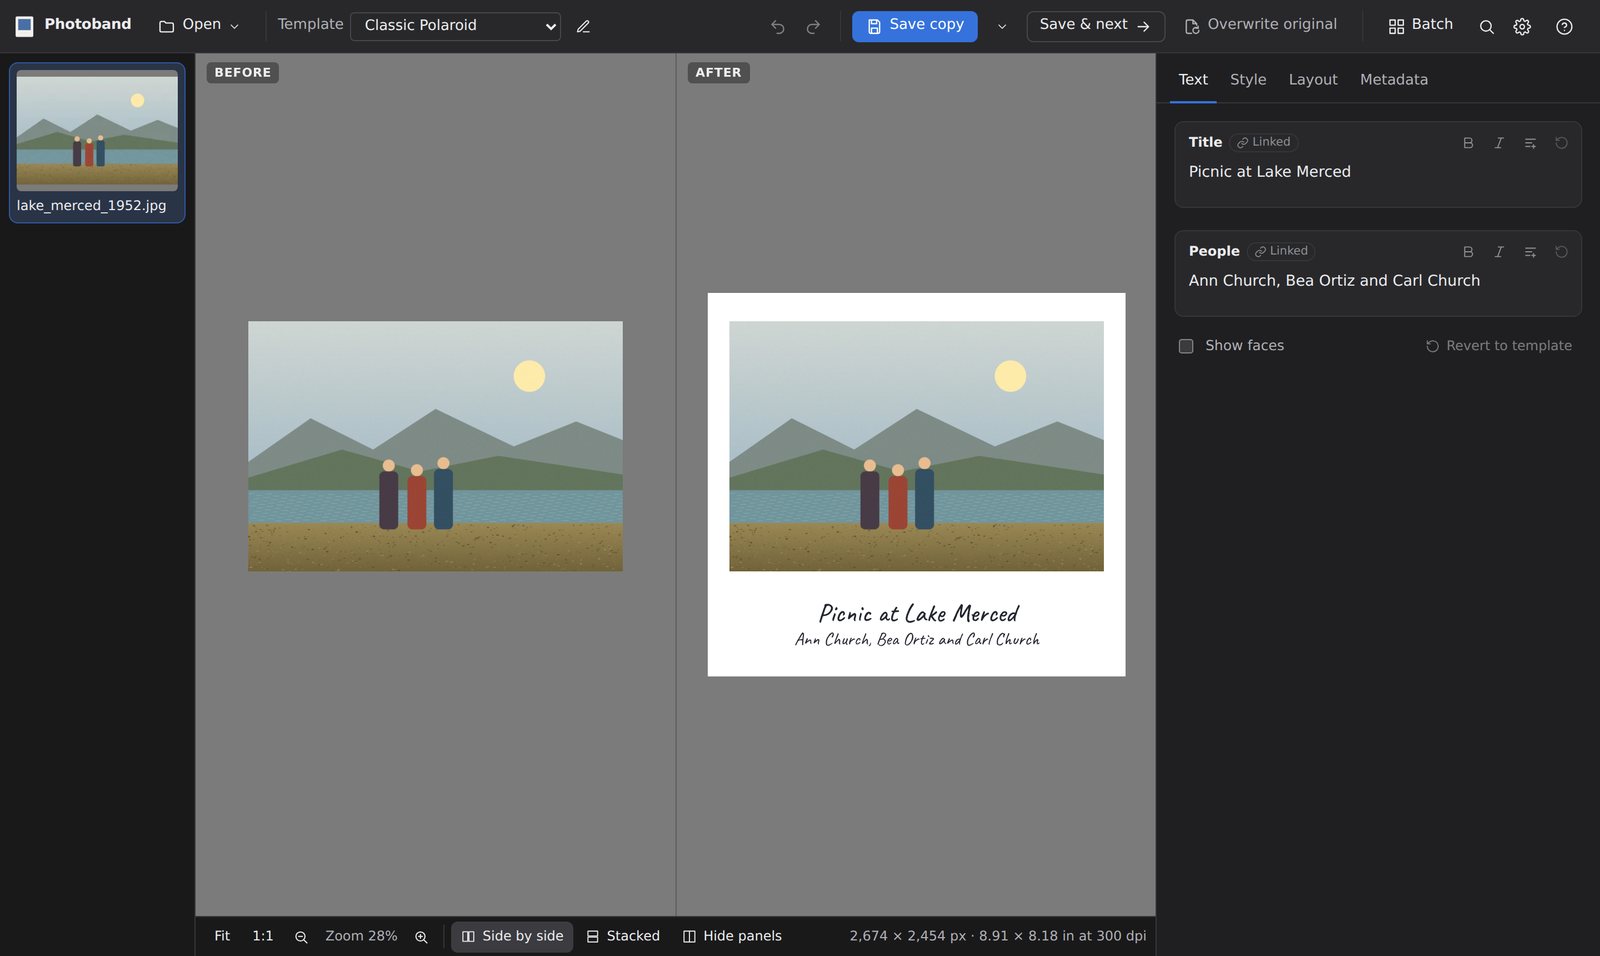
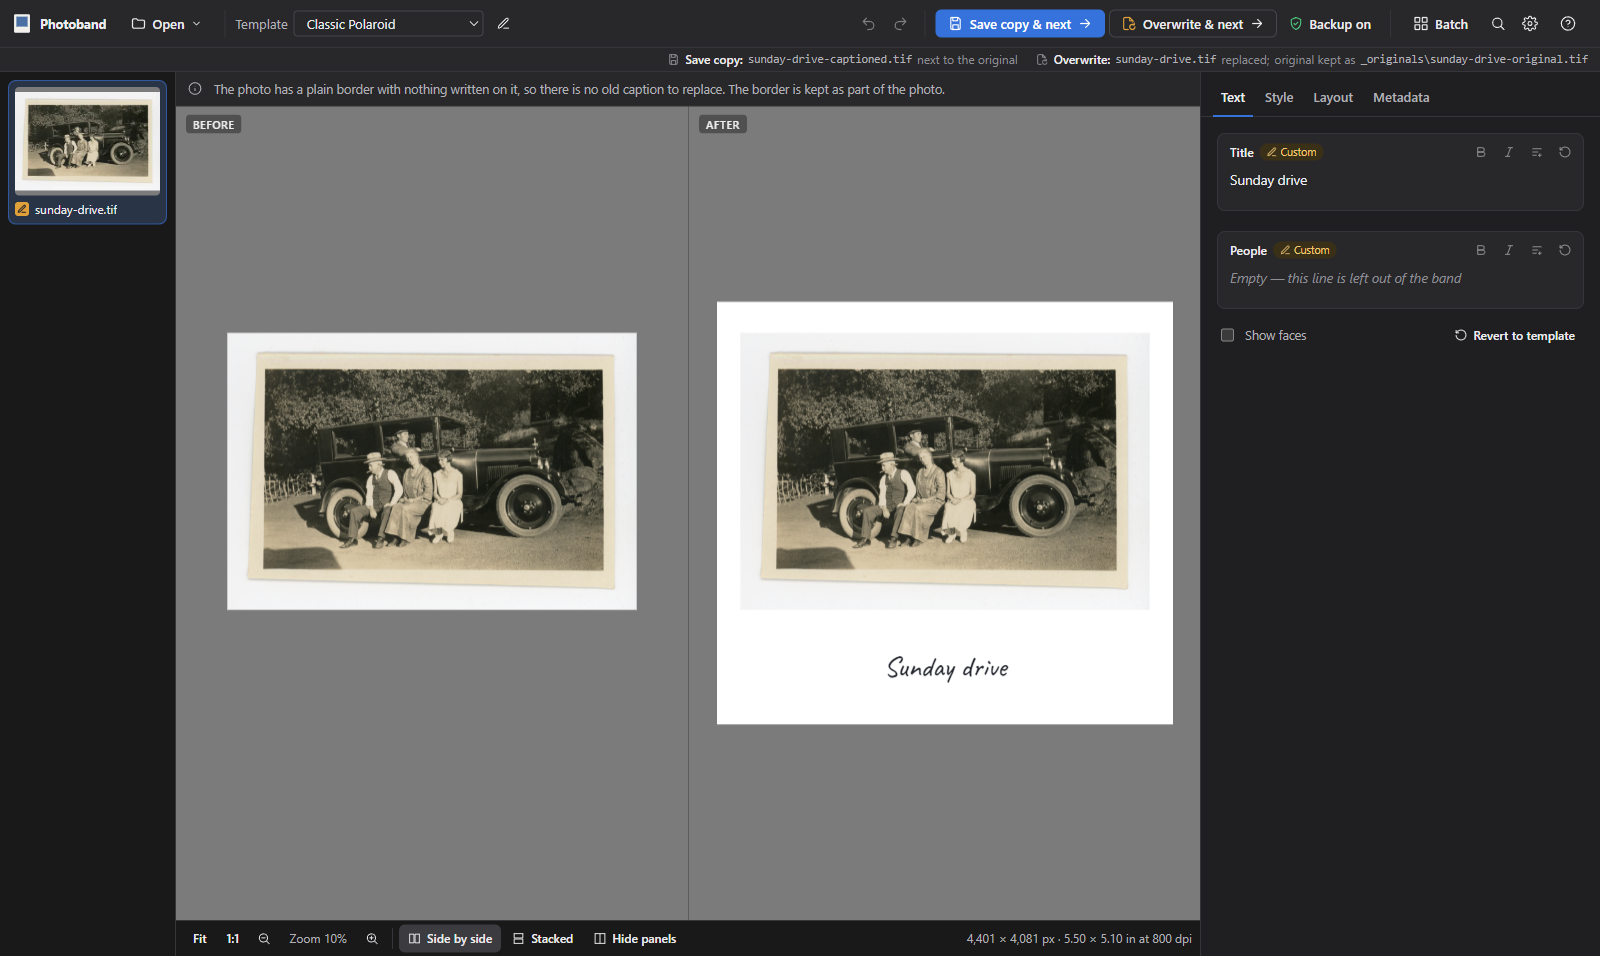
README screenshots from a real scan, without names
scripts/readme_screenshots.py retakes docs/images/editor-{light,dark}.png:
it opens a copy of a photo under a neutral name in a fresh app session and
can set the caption's Title/People, so no family names appear. Taken with
--name sunday-drive --title 'Sunday drive' --people ''.

Changed region(s): [[0.0, 0.0, 0.9688, 1.0], [0.9062, 0.3337, 1.0, 0.364]]

diff --git a/scripts/readme_screenshots.py b/scripts/readme_screenshots.py
@@ -1,0 +1,113 @@
+#!/usr/bin/env python3
+"""Take the README screenshots (docs/images/editor-light.png and editor-dark.png).
+
+    python scripts/readme_screenshots.py PHOTO [--name FILE] [--title TEXT] [--people TEXT] [--chromium PATH]
+
+PHOTO is copied to a temporary folder (the original is never opened for writing), optionally
+under another file name (--name: the real one may carry family names), the app is
+started in serve mode with a fresh settings folder, the photo is opened, and the editor is
+captured at 1600x956 in the light and the dark theme. --title / --people replace the caption's
+Title and People lines (an empty --people clears it), so no real names need to appear. Needs the UI built (ui/dist) and
+Playwright (pip install playwright; playwright install chromium, or --chromium for an installed
+Chromium/Chrome).
+"""
+from __future__ import annotations
+
+import argparse
+import os
+import shutil
+import socket
+import subprocess
+import sys
+import tempfile
+import time
+
+ROOT = os.path.dirname(os.path.dirname(os.path.abspath(__file__)))
+OUT = os.path.join(ROOT, "docs", "images")
+TOKEN = "readme-shots-0123456789abcdef"
+SIZE = {"width": 1600, "height": 956}
+
+
+def main() -> int:
+    ap = argparse.ArgumentParser(description=__doc__.split("\n\n")[0])
+    ap.add_argument("photo", help="the photo to show")
+    ap.add_argument("--name", help="file name for the copy that is opened (default: the photo's own)")
+    ap.add_argument("--title", help="text for the caption's Title line")
+    ap.add_argument("--people", help="text for the caption's People line ('' clears it)")
+    ap.add_argument("--chromium", help="path to a Chromium/Chrome executable for Playwright")
+    args = ap.parse_args()
+    from playwright.sync_api import expect, sync_playwright
+
+    home = tempfile.mkdtemp(prefix="pb-readme-home-")
+    work = os.path.join(tempfile.mkdtemp(prefix="pb-readme-"), "Photos")
+    os.makedirs(work)
+    name = args.name or os.path.basename(args.photo)
+    if os.path.splitext(name)[1].lower() != os.path.splitext(args.photo)[1].lower():
+        name += os.path.splitext(args.photo)[1]
+    shutil.copy2(args.photo, os.path.join(work, name))
+    s = socket.socket()
+    s.bind(("127.0.0.1", 0))
+    port = s.getsockname()[1]
+    s.close()
+    env = dict(os.environ, PHOTOBAND_HOME=home, PHOTOBAND_TOKEN=TOKEN, PHOTOBAND_NO_NATIVE_DIALOGS="1")
+    exiftool = os.path.join(ROOT, "vendor", "exiftool")
+    if os.path.isdir(exiftool):
+        env["PATH"] = exiftool + os.pathsep + env["PATH"]
+    proc = subprocess.Popen([sys.executable, "-m", "photoband", "serve", "--port", str(port), "--no-browser"],
+                            cwd=ROOT, env=env, stdout=subprocess.DEVNULL, stderr=subprocess.DEVNULL)
+    try:
+        for _ in range(200):
+            try:
+                socket.create_connection(("127.0.0.1", port), 0.2).close()
+                break
+            except OSError:
+                time.sleep(0.1)
+        with sync_playwright() as p:
+            browser = p.chromium.launch(executable_path=args.chromium) if args.chromium else p.chromium.launch()
+            for scheme in ("light", "dark"):
+                pg = browser.new_page(viewport=SIZE, color_scheme=scheme)
+                pg.goto(f"http://127.0.0.1:{port}/?t={TOKEN}")
+                pg.wait_for_selector("text=Caption your photos")
+                pg.click("text=Open folder…")
+                expect(pg.locator('input[aria-label="Folder path"]')).not_to_have_value("")
+                pg.fill('input[aria-label="Folder path"]', work)
+                pg.keyboard.press("Enter")
+                choose = pg.locator("div.dialog button:has-text('Choose folder')")
+                for _ in range(100):
+                    if choose.is_enabled():
+                        break
+                    pg.wait_for_timeout(100)
+                choose.click()
+                # the caption check has finished when Save turns on; then the preview settles
+                pg.wait_for_selector("header.tb button.save:not([disabled])", timeout=120000)
+                hint = pg.locator('[role="note"][aria-label="Getting started"] button:has-text("Got it")')
+                if hint.count():
+                    hint.click()
+                for label, text in (("Title", args.title), ("People", args.people)):
+                    if text is None:
+                        continue
+                    ed = pg.locator(f'[aria-label="{label}"][contenteditable]')
+                    if not ed.count():
+                        continue
+                    ed.click()
+                    pg.keyboard.press("Control+A")
+                    pg.keyboard.press("Backspace")
+                    if text:
+                        pg.keyboard.type(text)
+                pg.keyboard.press("Escape")
+                pg.mouse.move(SIZE["width"] - 2, SIZE["height"] - 2)
+                pg.wait_for_timeout(2500)
+                out = os.path.join(OUT, f"editor-{scheme}.png")
+                pg.screenshot(path=out)
+                print("wrote", os.path.relpath(out, ROOT))
+                pg.close()
+            browser.close()
+    finally:
+        proc.terminate()
+        shutil.rmtree(home, ignore_errors=True)
+        shutil.rmtree(os.path.dirname(work), ignore_errors=True)
+    return 0
+
+
+if __name__ == "__main__":
+    sys.exit(main())
